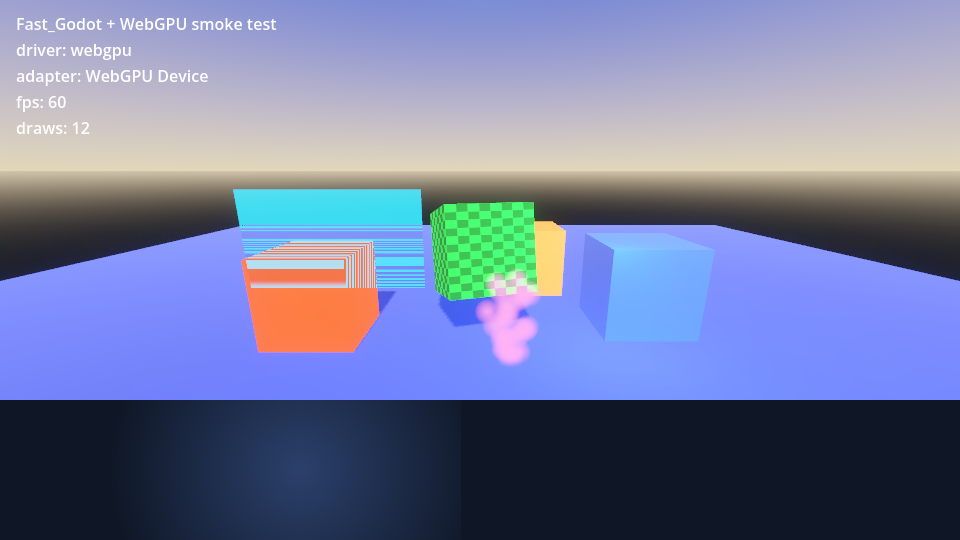
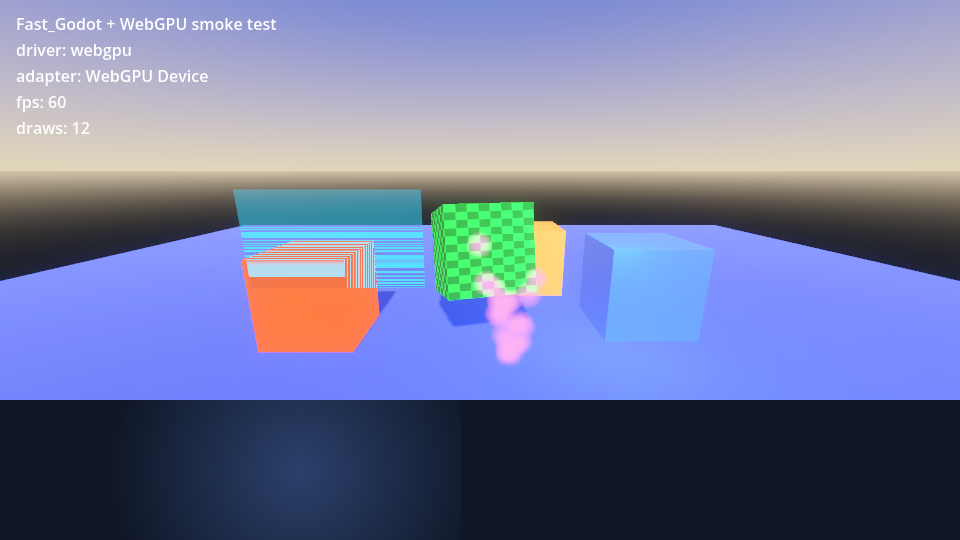
webgpu: fix the non-MSAA depth copy
With MSAA off, _render_buffers_copy_depth_texture went through
copy_to_fb_rect, whose shader declares its source as a float sampler2D. The
WebGPU driver substituted the dummy float view, so the R32F depth copy held
zeros and depth-texture materials read a constant (far) depth.

- new engine shader copy_depth_to_fb.glsl (depth read, out float) and
  CopyEffects::copy_depth_to_fb_rect; the scene renderer uses it for the 1x
  depth copy.
- driver: force depth typing for that shader by name prefix (shader names carry
  a ":<variant>" suffix), so Tint emits texture_depth_2d; the read is
  redirected through the existing non-filtering sampler alias, and the WGSL
  translation cache key is salted for the forced variant.
- driver: when the BGL expects a depth texture, bind the depth-only view
  instead of substituting the float fallback.
- docs: refresh the smoke-test screenshots (4x MSAA release builds).

Verified with 4x MSAA and MSAA off, debug and release templates plus the Grit
HTML5 Fast export: 60 FPS, zero WebGPU validation errors.

Changed region(s): [[0.2188, 0.3259, 0.5938, 0.6815]]

diff --git a/drivers/webgpu/rendering_device_driver_webgpu.cpp b/drivers/webgpu/rendering_device_driver_webgpu.cpp
@@ -465,7 +465,7 @@ static const char *_lookup_precompiled_wgsl(uint64_t p_spv_hash) {
 
 // Run SPIR-V preprocessing passes and translate to WGSL via Tint.
 // Returns a malloc'd null-terminated WGSL string, or nullptr on failure.
-static char *_translate_spirv_to_wgsl(const uint8_t *p_spv_ptr, int p_spv_size) {
+static char *_translate_spirv_to_wgsl(const uint8_t *p_spv_ptr, int p_spv_size, bool p_force_depth_images) {
 	if (p_spv_size < 20 || (p_spv_size % 4) != 0) {
 		return nullptr;
 	}
@@ -487,7 +487,7 @@ static char *_translate_spirv_to_wgsl(const uint8_t *p_spv_ptr, int p_spv_size) 
 	spv = spirv_preprocess::rewrite_terminate_invocation(spv);
 	spv = spirv_preprocess::convert_push_constants_to_uniforms(spv);
 	spv = spirv_preprocess::split_combined_samplers(spv);
-	spv = spirv_preprocess::fix_multisampled_depth_images(spv);
+	spv = spirv_preprocess::fix_depth_images(spv, p_force_depth_images);
 	auto depth_result = spirv_preprocess::fix_depth2_images(spv);
 	spv = depth_result.bytes;
 	spv = spirv_preprocess::negate_position_y(spv);
@@ -536,10 +536,14 @@ static char *_translate_spirv_to_wgsl(const uint8_t *p_spv_ptr, int p_spv_size) 
 
 // Returns a malloc'd null-terminated WGSL string (caller must free), or nullptr on
 // failure. Checks: (1) in-memory cache, (2) precompiled table, (3) Tint fallback.
-static char *_spv_to_wgsl_cached(const uint8_t *p_spv_ptr, int p_spv_size) {
+static char *_spv_to_wgsl_cached(const uint8_t *p_spv_ptr, int p_spv_size, bool p_force_depth_images) {
 	uint32_t hash_lo = hash_murmur3_buffer(p_spv_ptr, p_spv_size);
 	uint32_t hash_hi = hash_murmur3_buffer(p_spv_ptr, p_spv_size, 0x9E3779B9);
 	uint64_t spv_hash = ((uint64_t)hash_hi << 32) | hash_lo;
+	if (p_force_depth_images) {
+		// Same SPIR-V can translate differently with forced depth typing.
+		spv_hash ^= 0x9E3779B97F4A7C15ULL;
+	}
 
 	// 1. Check in-memory cache (hits on repeated calls within same session).
 	const String *cached = _spv_to_wgsl_cache.getptr(spv_hash);
@@ -573,7 +577,7 @@ static char *_spv_to_wgsl_cached(const uint8_t *p_spv_ptr, int p_spv_size) {
 	// 3. Fall back to Tint (for specialized shaders and shaders not in the table).
 	_spv_to_wgsl_cache_misses++;
 
-	char *wgsl_str = _translate_spirv_to_wgsl(p_spv_ptr, p_spv_size);
+	char *wgsl_str = _translate_spirv_to_wgsl(p_spv_ptr, p_spv_size, p_force_depth_images);
 
 	if (wgsl_str) {
 		_spv_to_wgsl_cache[spv_hash] = String(wgsl_str);
@@ -3705,7 +3709,9 @@ RDD::ShaderID RenderingDeviceDriverWebGPU::shader_create_from_container(const Re
 		// We convert SPIR-V → WGSL at runtime using Tint (C++, linked directly).
 		// Many shader stages share SPIR-V bytes; _spv_to_wgsl_cached looks up a
 		// process-lifetime cache before invoking Tint (see helper definition).
-		char *wgsl_str = _spv_to_wgsl_cached(spv_bytes.ptr(), (int)spv_bytes.size());
+		// Shader names include the variant suffix (e.g. "FooShaderRD:0").
+		const bool force_depth_images = shader->name.begins_with("CopyDepthToFbShaderRD");
+		char *wgsl_str = _spv_to_wgsl_cached(spv_bytes.ptr(), (int)spv_bytes.size(), force_depth_images);
 
 		if (wgsl_str == nullptr) {
 			error_text = vformat("WebGPU: SPIR-V→WGSL conversion failed for stage %d.", (int)s.shader_stage);
@@ -5445,7 +5451,10 @@ RDD::UniformSetID RenderingDeviceDriverWebGPU::uniform_set_create(VectorView<Bou
 						// which binds an MSAA depth texture into a float MSAA slot (WebGPU
 						// forbids sampling depth as float, so the MSAA fallback is used).
 						bool tex_is_ms = (tex->sample_count > 1);
-						if (swt_expected_ms && (!tex_is_ms || _is_depth_format(tex->format)) &&
+						if (swt_expected_depth && _is_depth_format(tex->format)) {
+							// Depth attachment bound to a texture_depth_2d slot.
+							te.textureView = tex->depth_view ? tex->depth_view : tex->default_view;
+						} else if (swt_expected_ms && (!tex_is_ms || _is_depth_format(tex->format)) &&
 								fallback_ms_texture_view != nullptr) {
 							te.textureView = fallback_ms_texture_view;
 						} else if (_is_depth_format(tex->format) && fallback_float_texture_view != nullptr) {
@@ -8131,7 +8140,8 @@ static PackedByteArray _patch_spirv_spec_constants(const PackedByteArray &p_spir
 WGPUShaderModule RenderingDeviceDriverWebGPU::_create_module_with_spec_constants(
 		const PackedByteArray &p_spirv,
 		VectorView<PipelineSpecializationConstant> p_constants,
-		ShaderStage p_stage) {
+		ShaderStage p_stage,
+		bool p_force_depth_images) {
 	PackedByteArray patched = _patch_spirv_spec_constants(p_spirv, p_constants);
 
 	if (_wgsl_final_dump_enabled()) {
@@ -8140,7 +8150,7 @@ WGPUShaderModule RenderingDeviceDriverWebGPU::_create_module_with_spec_constants
 	}
 
 	// Cached SPIR-V → WGSL via Tint (see _spv_to_wgsl_cached above).
-	char *wgsl_str = _spv_to_wgsl_cached(patched.ptr(), (int)patched.size());
+	char *wgsl_str = _spv_to_wgsl_cached(patched.ptr(), (int)patched.size(), p_force_depth_images);
 
 	if (!wgsl_str) {
 		ERR_PRINT("WebGPU: SPIR-V→WGSL conversion failed for specialized shader module.");
@@ -8403,14 +8413,16 @@ RDD::PipelineID RenderingDeviceDriverWebGPU::render_pipeline_create(
 			// Legacy path: patch SPIR-V and create specialized modules via Tint.
 			if (!shader->stage_spirv[SHADER_STAGE_VERTEX].is_empty()) {
 				specialized_vertex = _create_module_with_spec_constants(
-						shader->stage_spirv[SHADER_STAGE_VERTEX], p_specialization_constants, SHADER_STAGE_VERTEX);
+						shader->stage_spirv[SHADER_STAGE_VERTEX], p_specialization_constants, SHADER_STAGE_VERTEX,
+						shader->name.begins_with("CopyDepthToFbShaderRD"));
 				if (specialized_vertex) {
 					vertex_module = specialized_vertex;
 				}
 			}
 			if (!shader->stage_spirv[SHADER_STAGE_FRAGMENT].is_empty()) {
 				specialized_fragment = _create_module_with_spec_constants(
-						shader->stage_spirv[SHADER_STAGE_FRAGMENT], p_specialization_constants, SHADER_STAGE_FRAGMENT);
+						shader->stage_spirv[SHADER_STAGE_FRAGMENT], p_specialization_constants, SHADER_STAGE_FRAGMENT,
+						shader->name.begins_with("CopyDepthToFbShaderRD"));
 				if (specialized_fragment) {
 					fragment_module = specialized_fragment;
 				}
@@ -8949,7 +8961,8 @@ RDD::PipelineID RenderingDeviceDriverWebGPU::compute_pipeline_create(ShaderID p_
 			}
 		} else if (!shader->stage_spirv[SHADER_STAGE_COMPUTE].is_empty()) {
 			specialized_compute = _create_module_with_spec_constants(
-					shader->stage_spirv[SHADER_STAGE_COMPUTE], p_specialization_constants, SHADER_STAGE_COMPUTE);
+					shader->stage_spirv[SHADER_STAGE_COMPUTE], p_specialization_constants, SHADER_STAGE_COMPUTE,
+					shader->name.begins_with("CopyDepthToFbShaderRD"));
 			if (specialized_compute) {
 				compute_module = specialized_compute;
 			}

diff --git a/servers/rendering/renderer_rd/effects/copy_effects.cpp b/servers/rendering/renderer_rd/effects/copy_effects.cpp
@@ -143,6 +143,13 @@ CopyEffects::CopyEffects(BitField<RasterEffects> p_raster_effects) {
 	}
 
 	{
+		// Initialize the depth-to-R32F copier (no push constants, full-screen triangle).
+		copy_depth_to_fb.shader.initialize({ "" });
+		copy_depth_to_fb.shader_version = copy_depth_to_fb.shader.version_create();
+		copy_depth_to_fb.pipeline.setup(copy_depth_to_fb.shader.version_get_shader(copy_depth_to_fb.shader_version, 0), RD::RENDER_PRIMITIVE_TRIANGLES, RD::PipelineRasterizationState(), RD::PipelineMultisampleState(), RD::PipelineDepthStencilState(), RD::PipelineColorBlendState::create_disabled(), 0);
+	}
+
+	{
 		// Initialize copier
 		Vector<String> copy_modes;
 		copy_modes.push_back("\n");
@@ -352,6 +359,9 @@ CopyEffects::~CopyEffects() {
 	for (int i = 0; i < COPY_MODE_MAX; i++) {
 		copy.pipelines[i].free();
 	}
+
+	copy_depth_to_fb.pipeline.clear();
+	copy_depth_to_fb.shader.version_free(copy_depth_to_fb.shader_version);
 
 	if (raster_effects.has_flag(RASTER_EFFECT_GAUSSIAN_BLUR)) {
 		blur_raster.shader.version_free(blur_raster.shader_version);
@@ -605,6 +615,25 @@ void CopyEffects::copy_to_atlas_fb(RID p_source_rd_texture, RID p_dest_framebuff
 	RD::get_singleton()->draw_list_bind_index_array(draw_list, material_storage->get_quad_index_array());
 	RD::get_singleton()->draw_list_set_push_constant(draw_list, &copy_to_fb.push_constant, sizeof(CopyToFbPushConstant));
 	RD::get_singleton()->draw_list_draw(draw_list, true);
+}
+
+void CopyEffects::copy_depth_to_fb_rect(RID p_source_rd_texture, RID p_dest_framebuffer, const Rect2i &p_rect) {
+	UniformSetCacheRD *uniform_set_cache = UniformSetCacheRD::get_singleton();
+	ERR_FAIL_NULL(uniform_set_cache);
+	MaterialStorage *material_storage = MaterialStorage::get_singleton();
+	ERR_FAIL_NULL(material_storage);
+
+	RID default_sampler = material_storage->sampler_rd_get_default(RSE::CANVAS_ITEM_TEXTURE_FILTER_NEAREST, RSE::CANVAS_ITEM_TEXTURE_REPEAT_DISABLED);
+	RD::Uniform u_source_rd_texture(RD::UNIFORM_TYPE_SAMPLER_WITH_TEXTURE, 0, Vector<RID>({ default_sampler, p_source_rd_texture }));
+
+	RID shader = copy_depth_to_fb.shader.version_get_shader(copy_depth_to_fb.shader_version, 0);
+	ERR_FAIL_COND(shader.is_null());
+
+	RD::DrawListID draw_list = RD::get_singleton()->draw_list_begin(p_dest_framebuffer, RD::DRAW_DEFAULT_ALL, Vector<Color>(), 1.0f, 0, p_rect);
+	RD::get_singleton()->draw_list_bind_render_pipeline(draw_list, copy_depth_to_fb.pipeline.get_render_pipeline(RD::INVALID_ID, RD::get_singleton()->framebuffer_get_format(p_dest_framebuffer)));
+	RD::get_singleton()->draw_list_bind_uniform_set(draw_list, uniform_set_cache->get_cache(shader, 0, u_source_rd_texture), 0);
+	RD::get_singleton()->draw_list_draw(draw_list, false, 1u, 3u);
+	RD::get_singleton()->draw_list_end();
 }
 
 void CopyEffects::copy_to_fb_rect(RID p_source_rd_texture, RID p_dest_framebuffer, const Rect2i &p_rect, bool p_flip_y, bool p_force_luminance, bool p_alpha_to_zero, bool p_srgb, RID p_secondary, bool p_multiview, bool p_alpha_to_one, bool p_linear, bool p_normal, const Rect2 &p_src_rect, float p_linear_luminance_multiplier, bool p_bilinear_filtering) {

diff --git a/drivers/webgpu/spirv_preprocess.cpp b/drivers/webgpu/spirv_preprocess.cpp
@@ -1497,9 +1497,9 @@ DepthImageFixResult fix_depth2_images(const Vector<uint8_t> &p_bytes) {
 	return result;
 }
 
-// ---- fix_multisampled_depth_images ----
+// ---- fix_depth_images ----
 
-Vector<uint8_t> fix_multisampled_depth_images(const Vector<uint8_t> &p_bytes) {
+Vector<uint8_t> fix_depth_images(const Vector<uint8_t> &p_bytes, bool p_force_depth_images) {
 	const int64_t len = p_bytes.size();
 	const uint32_t total_words = (uint32_t)(len / 4);
 	if (total_words < 5) {
@@ -1508,14 +1508,19 @@ Vector<uint8_t> fix_multisampled_depth_images(const Vector<uint8_t> &p_bytes) {
 
 	const uint8_t *data = p_bytes.ptr();
 
-	// Only fragment-stage modules are affected: the mobile renderer resolves
-	// MSAA depth with a fragment shader (resolve_raster.glsl) that reads the
-	// depth attachment through `sampler2DMS`. glslang declares that image with
-	// Depth=0, so Tint emits `texture_multisampled_2d<f32>` and WebGPU then
-	// refuses to bind a depth-format texture to it. Marking the image as depth
-	// makes Tint emit `texture_depth_multisampled_2d`, which binds the real
-	// depth texture. The compute resolve (resolve.glsl) also reads multisampled
-	// colour attachments, so it must keep the float sample type.
+	// Two callers need depth-typed images:
+	// - The mobile renderer resolves MSAA depth with a fragment shader
+	//   (resolve_raster.glsl) that reads the depth attachment through
+	//   `sampler2DMS`. glslang declares that image with Depth=0, so Tint emits
+	//   `texture_multisampled_2d<f32>` and WebGPU refuses to bind a depth-format
+	//   texture to it. Marking the image as depth makes Tint emit
+	//   `texture_depth_multisampled_2d`. The compute resolve (resolve.glsl) also
+	//   reads multisampled colour attachments, so only fragment modules are
+	//   patched.
+	// - The dedicated depth copy shader (copy_depth_to_fb.glsl) reads a
+	//   non-multisampled depth attachment; the driver passes
+	//   p_force_depth_images for it, since its image is not distinguishable from
+	//   a colour texture by type alone.
 	bool is_fragment = false;
 	{
 		uint32_t pos = 5;
@@ -1536,12 +1541,11 @@ Vector<uint8_t> fix_multisampled_depth_images(const Vector<uint8_t> &p_bytes) {
 			pos += wc;
 		}
 	}
-	if (!is_fragment) {
+	if (!is_fragment && !p_force_depth_images) {
 		return p_bytes;
 	}
 
-	// Collect float type ids so integer multisampled images (usampler2DMS) are
-	// left alone.
+	// Collect float type ids so integer images (usampler2DMS) are left alone.
 	HashSet<uint32_t> float_type_ids;
 	{
 		uint32_t pos = 5;
@@ -1574,7 +1578,8 @@ Vector<uint8_t> fix_multisampled_depth_images(const Vector<uint8_t> &p_bytes) {
 			uint32_t sampled_type = read_word(out_data, len, pos + 2);
 			uint32_t depth = read_word(out_data, len, pos + 4);
 			uint32_t ms = read_word(out_data, len, pos + 6);
-			if (ms == 1 && depth == 0 && float_type_ids.has(sampled_type)) {
+			bool mark = (ms == 1 && is_fragment) || p_force_depth_images;
+			if (mark && depth == 0 && float_type_ids.has(sampled_type)) {
 				uint32_t one = 1;
 				memcpy(out_data + (pos + 4) * 4, &one, 4);
 				changed = true;

diff --git a/servers/rendering/renderer_rd/effects/copy_effects.h b/servers/rendering/renderer_rd/effects/copy_effects.h
@@ -34,6 +34,7 @@
 #include "servers/rendering/renderer_rd/pipeline_deferred_rd.h"
 #include "servers/rendering/renderer_rd/shaders/effects/blur_raster.glsl.gen.h"
 #include "servers/rendering/renderer_rd/shaders/effects/copy.glsl.gen.h"
+#include "servers/rendering/renderer_rd/shaders/effects/copy_depth_to_fb.glsl.gen.h"
 #include "servers/rendering/renderer_rd/shaders/effects/copy_to_fb.glsl.gen.h"
 #include "servers/rendering/renderer_rd/shaders/effects/cube_to_dp.glsl.gen.h"
 #include "servers/rendering/renderer_rd/shaders/effects/cube_to_octmap.glsl.gen.h"
@@ -216,6 +217,14 @@ private:
 
 	} copy_to_fb;
 
+	// Copy a depth attachment into an R32F framebuffer. Used where sampling the
+	// depth texture as a float texture is not possible (WebGPU).
+	struct CopyDepthToFb {
+		CopyDepthToFbShaderRD shader;
+		RID shader_version;
+		PipelineCacheRD pipeline;
+	} copy_depth_to_fb;
+
 	// Copy to DP
 
 	struct CopyToDPPushConstant {
@@ -370,6 +379,7 @@ public:
 	void copy_octmap_to_panorama(RID p_source_octmap, RID p_dest_panorama, const Size2i &p_panorama_size, float p_lod, bool p_is_array, const Size2 &p_source_octmap_border_size);
 	void copy_depth_to_rect(RID p_source_rd_texture, RID p_dest_framebuffer, const Rect2i &p_rect, bool p_flip_y = false);
 	void copy_depth_to_rect_and_linearize(RID p_source_rd_texture, RID p_dest_texture, const Rect2i &p_rect, bool p_flip_y, float p_z_near, float p_z_far);
+	void copy_depth_to_fb_rect(RID p_source_rd_texture, RID p_dest_framebuffer, const Rect2i &p_rect);
 	void copy_to_fb_rect(RID p_source_rd_texture, RID p_dest_framebuffer, const Rect2i &p_rect, bool p_flip_y = false, bool p_force_luminance = false, bool p_alpha_to_zero = false, bool p_srgb = false, RID p_secondary = RID(), bool p_multiview = false, bool alpha_to_one = false, bool p_linear = false, bool p_normal = false, const Rect2 &p_src_rect = Rect2(), float p_linear_luminance_multiplier = 1.0, bool p_bilinear_filtering = true);
 	void copy_to_atlas_fb(RID p_source_rd_texture, RID p_dest_framebuffer, const Rect2 &p_uv_rect, RD::DrawListID p_draw_list, bool p_flip_y = false, bool p_panorama = false);
 	void copy_to_drawlist(RD::DrawListID p_draw_list, RD::FramebufferFormatID p_fb_format, RID p_source_rd_texture, bool p_linear = false, float p_linear_luminance_multiplier = 1.0);

diff --git a/drivers/webgpu/spirv_preprocess.h b/drivers/webgpu/spirv_preprocess.h
@@ -87,13 +87,13 @@ DepthImageFixResult fix_depth2_images(const Vector<uint8_t> &p_bytes);
 // is done as a SPIR-V preprocessing pass instead.
 Vector<uint8_t> negate_position_y(const Vector<uint8_t> &p_bytes);
 
-// Mark multisampled images in fragment-stage modules as depth images
-// (OpTypeImage Depth=1) so Tint emits `texture_depth_multisampled_2d` and the
-// MSAA depth attachment can be bound. WebGPU forbids binding a depth-format
-// texture to the float sample type glslang's plain `sampler2DMS` implies.
-// The mobile renderer's depth resolve (resolve_raster.glsl) is the only
-// fragment shader in the engine that reads a multisampled texture.
-Vector<uint8_t> fix_multisampled_depth_images(const Vector<uint8_t> &p_bytes);
+// Mark images as depth images (OpTypeImage Depth=1) so Tint emits
+// texture_depth_* instead of float types and the real depth attachment can be
+// bound. WebGPU forbids binding a depth-format texture to a float sample type.
+// In fragment-stage modules all multisampled float images are marked (the
+// mobile renderer's MSAA depth resolve); p_force_depth_images marks every float
+// image in the module, for the dedicated depth-copy shader.
+Vector<uint8_t> fix_depth_images(const Vector<uint8_t> &p_bytes, bool p_force_depth_images);
 
 // Strip OpDecorate/OpMemberDecorate for decorations unsupported by Tint:
 // Restrict (19) — memory hint from glslang, no WGSL equivalent.

diff --git a/drivers/webgpu/rendering_device_driver_webgpu.h b/drivers/webgpu/rendering_device_driver_webgpu.h
@@ -195,7 +195,7 @@ class RenderingDeviceDriverWebGPU : public RenderingDeviceDriver {
 	WGPUTextureViewDimension _texture_type_to_view_dimension(TextureType p_type) const;
 
 	void _flush_push_constants(WGCommandBuffer *p_cmd_buf, WGShader *p_shader);
-	WGPUShaderModule _create_module_with_spec_constants(const PackedByteArray &p_spirv, VectorView<PipelineSpecializationConstant> p_constants, ShaderStage p_stage);
+	WGPUShaderModule _create_module_with_spec_constants(const PackedByteArray &p_spirv, VectorView<PipelineSpecializationConstant> p_constants, ShaderStage p_stage, bool p_force_depth_images);
 
 public:
 	RenderingDeviceDriverWebGPU(RenderingContextDriverWebGPU *p_context_driver);

diff --git a/servers/rendering/renderer_rd/renderer_scene_render_rd.cpp b/servers/rendering/renderer_rd/renderer_scene_render_rd.cpp
@@ -452,7 +452,10 @@ void RendererSceneRenderRD::_render_buffers_copy_depth_texture(const RenderDataR
 				}
 				resolve_effects->resolve_depth_raster(rb->get_depth_msaa(v), depth_back_fb, resolve_samples);
 			} else {
-				copy_effects->copy_to_fb_rect(depth_texture, depth_back_fb, Rect2i(0, 0, size.x, size.y));
+				// Dedicated depth copy: the WebGPU backend cannot bind a depth
+				// attachment to the float copy_to_fb shader, so the depth read
+				// goes through a shader the driver types as a depth texture.
+				copy_effects->copy_depth_to_fb_rect(depth_texture, depth_back_fb, Rect2i(0, 0, size.x, size.y));
 			}
 		}
 	}
